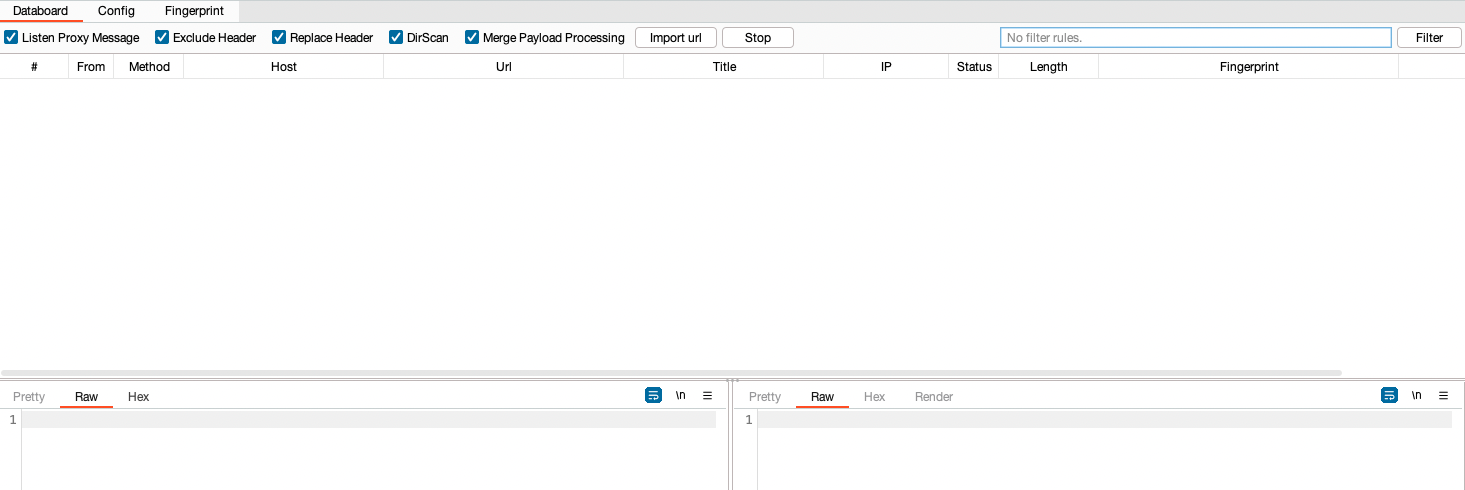
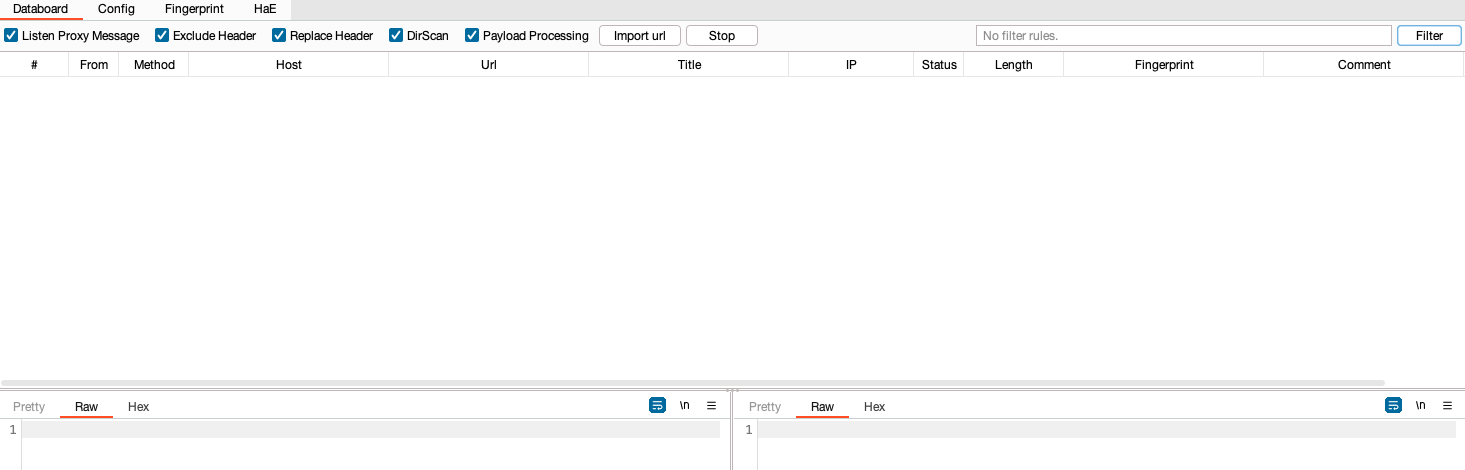
更新版本号为1.4.0；更新说明文档和部分截图

diff --git a/src/main/java/burp/vaycore/onescan/common/Constants.java b/src/main/java/burp/vaycore/onescan/common/Constants.java
@@ -9,14 +9,14 @@ public interface Constants {
 
     // 插件信息
     String PLUGIN_NAME = "OneScan";
-    String PLUGIN_VERSION = "1.3.7";
+    String PLUGIN_VERSION = "1.4.0";
     boolean DEBUG = false;
 
     // 插件启动显示的信息
     String BANNER = "" +
             "#################################\n" +
             "  " + PLUGIN_NAME + " v" + PLUGIN_VERSION + "\n" +
-            "  Author:    One\n" +
+            "  Author:    0ne_1\n" +
             "  Developer: vaycore\n" +
             "  Developer: Rural.Dog\n" +
             "  Github: https://github.com/vaycore/OneScan\n" +

diff --git a/README.md b/README.md
@@ -99,7 +99,7 @@ C:\Users\<用户名>\.config\OneScan\
 - `Exclude Header` 开关排除请求头（默认禁用），根据 `Request -> Exclude header` 里的配置，排除请求头中对应的值
 - `Replace Header` 开关请求头替换（默认启用），使用 `Request -> Header` 中配置的请求头请求数据
 - `DirScan` 开关递归扫描（默认启用），对目标进行递归扫描
-- `Merge Payload Processing` 开关合并目录扫描与Payload Processing扫描（默认启用），关闭后发送请求数量将多一倍
+- `Payload Processing` 开关 Payload Processing 功能（默认启用）
 - `Filter` 设置数据过滤规则
 - `Import url` 导入 Url 目标进行扫描
 - `Stop` 停止正在扫描的任务
